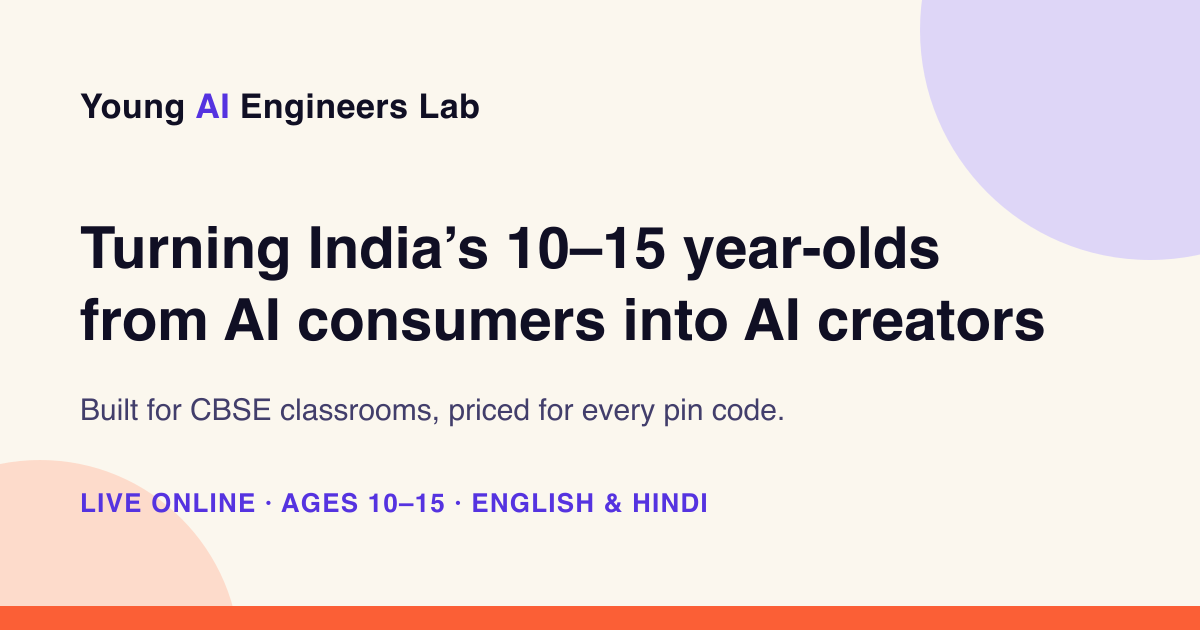
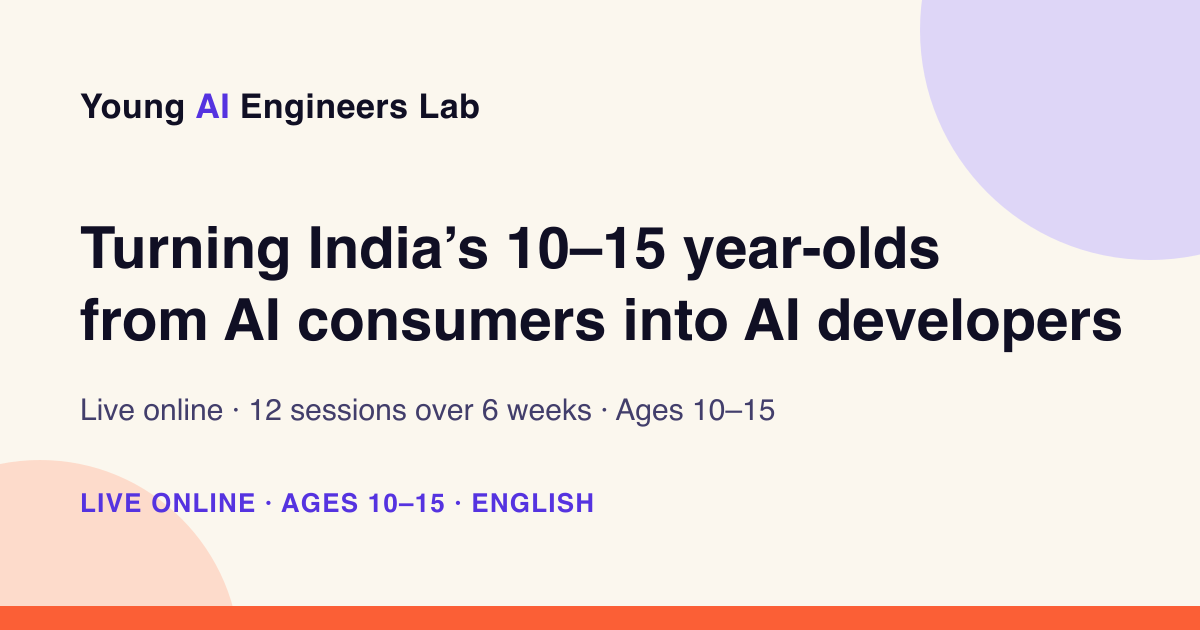
Content update: AI developers, English-only, Problem/Solution About page
- "AI creators" -> "AI developers" across copy, metadata and the OG image
- Removed the "Built for CBSE classrooms, priced for every pin code" tagline
- English-only: all Bhashini/Hindi/regional-language claims removed, including
  schema language fields and the OG image
- Broadened CBSE-specific framing to CBSE, ICSE and state boards
- About page rebuilt as Mission/Vision/Goal plus a Problem section answered 1:1
  by a Solution section
- Removed the Demo Day investor card
- Our Team: founder names with icon-only LinkedIn links; founder Person schema
  added now that names and profiles are published
- Contact: merged the two partner channels that already shared an inbox

Changed region(s): [[0.0617, 0.6333, 0.6475, 0.6937], [0.6783, 0.4524, 0.9558, 0.573], [0.4933, 0.7841, 0.5858, 0.8143]]

diff --git a/src/seo.ts b/src/seo.ts
@@ -9,10 +9,13 @@
  * domain root).
  *
  * Everything asserted here must be true and must already be visible on the
- * site. Deliberately absent: aggregateRating, review, Person (no instructor
- * name is published), foundingDate, numberOfStudents, and any price — all of
- * those would be fabricated, and fabricated structured data is a manual
- * action risk, not just a quality problem.
+ * site. Deliberately absent: aggregateRating, review, foundingDate,
+ * numberOfStudents, and any price — all of those would be fabricated, and
+ * fabricated structured data is a manual action risk, not just a quality
+ * problem.
+ *
+ * `founder` (Person) IS included: both names and their LinkedIn profiles are
+ * published on /our-team/, so it asserts nothing the site does not show.
  */
 import { EMAILS } from './emails';
 
@@ -23,7 +26,7 @@ export const SITE_LOCALE = 'en_IN';
 /** 1200x630 PNG in public/ — see README note on replacing it with a designed asset. */
 export const OG_IMAGE_PATH = 'og-image.png';
 export const OG_IMAGE_ALT =
-  'The Young AI Engineers Lab — turning India’s 10–15 year-olds from AI consumers into AI creators';
+  'The Young AI Engineers Lab — turning India’s 10–15 year-olds from AI consumers into AI developers';
 
 /**
  * Resolves a path against the deployed origin, preserving Astro's configured
@@ -46,22 +49,39 @@ export function organizationSchema(site: URL | undefined) {
     alternateName: SITE_SHORT_NAME,
     url: home,
     description:
-      "An Indian programme that teaches 10–15 year-olds how AI actually works and how to build with it, alongside CBSE's Computational Thinking & AI curriculum for Classes 3–8 and its Artificial Intelligence Skill Subject (Code 417).",
+      "An Indian programme that teaches 10–15 year-olds how AI actually works and how to build with it, alongside what schools across CBSE, ICSE and state boards are now starting to teach about AI. Taught in English.",
     areaServed: { '@type': 'Country', name: 'India' },
-    knowsLanguage: ['en', 'hi'],
+    knowsLanguage: ['en'],
+    // Mirrors the two founders shown on /our-team/, including the LinkedIn
+    // profiles published there. sameAs is how a search engine ties the person
+    // to an identity it already knows.
+    founder: [
+      {
+        '@type': 'Person',
+        name: 'Balaji Bhat',
+        jobTitle: 'Founder & CEO',
+        sameAs: 'https://www.linkedin.com/in/balaji-b-9a63731a4/',
+      },
+      {
+        '@type': 'Person',
+        name: 'Yash Kadam',
+        jobTitle: 'Co-Founder & Head of Curriculum',
+        sameAs: 'https://www.linkedin.com/in/yashkadam1899/',
+      },
+    ],
     email: EMAILS.learn,
     contactPoint: [
       {
         '@type': 'ContactPoint',
         contactType: 'admissions',
         email: EMAILS.learn,
-        availableLanguage: ['en', 'hi'],
+        availableLanguage: ['en'],
       },
       {
         '@type': 'ContactPoint',
         contactType: 'school and CSR partnerships',
         email: EMAILS.partner,
-        availableLanguage: ['en', 'hi'],
+        availableLanguage: ['en'],
       },
       { '@type': 'ContactPoint', contactType: 'press', email: EMAILS.press },
       { '@type': 'ContactPoint', contactType: 'investor relations', email: EMAILS.invest },
@@ -83,9 +103,9 @@ export function courseSchema(site: URL | undefined) {
     name: 'The Winter Lab — AI for 10–15 year-olds',
     url: `${home}#how-it-works`,
     description:
-      "A live online AI lab for students aged roughly 10 to 15, with depth scaling by tier. The main program runs 12 sessions over 6 weeks across three tiers — Beginner, Intermediate and Practitioner — taught in English and Hindi with regional-language material. A separate, selective 8-session Expert tier is offered by invitation to students from the main program, and is not separately registrable. Designed as a companion to CBSE's Computational Thinking & AI curriculum for Classes 3 to 8 and its Artificial Intelligence Skill Subject (Code 417) for Grades 9 and 10.",
+      "A live online AI lab for students aged roughly 10 to 15, with depth scaling by tier. The main program runs 12 sessions over 6 weeks across three tiers — Beginner, Intermediate and Practitioner — taught in English. A separate, selective 8-session Expert tier is offered by invitation to students from the main program, and is not separately registrable. Designed as a companion to the AI curriculum Indian schools are now introducing, across CBSE, ICSE and state boards.",
     provider: { '@id': `${home}#organization` },
-    inLanguage: ['en', 'hi'],
+    inLanguage: ['en'],
     typicalAgeRange: '10-15',
     isAccessibleForFree: false,
     audience: { '@type': 'EducationalAudience', educationalRole: 'student' },
